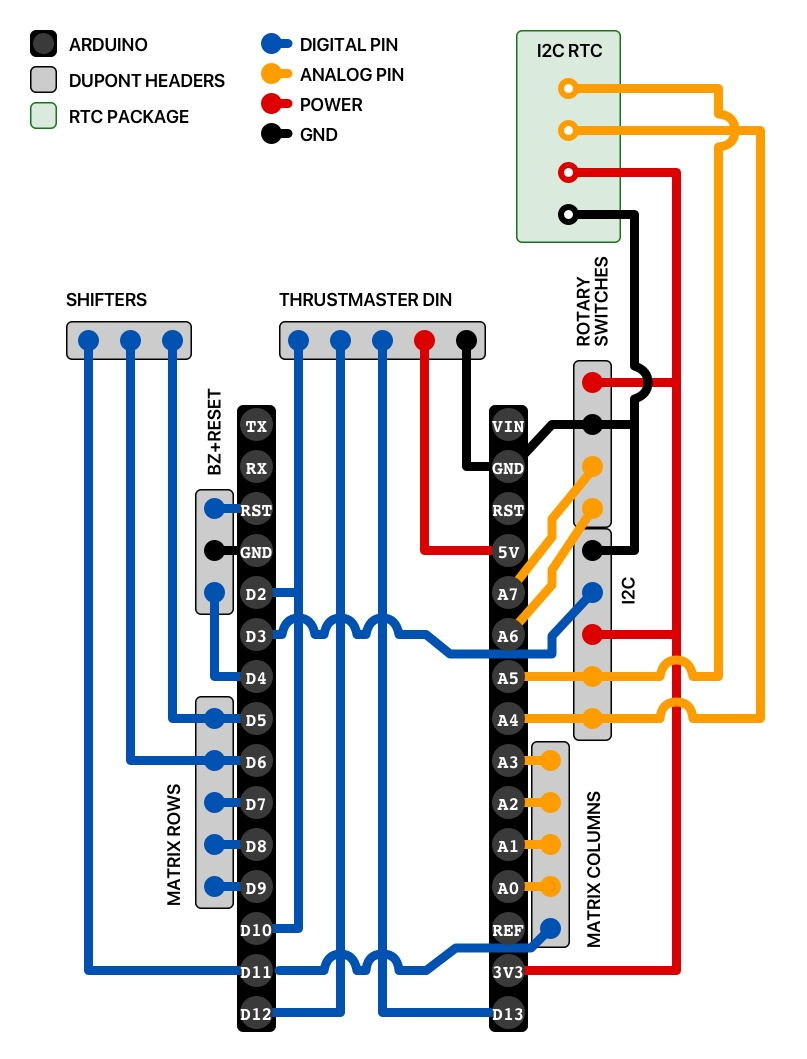
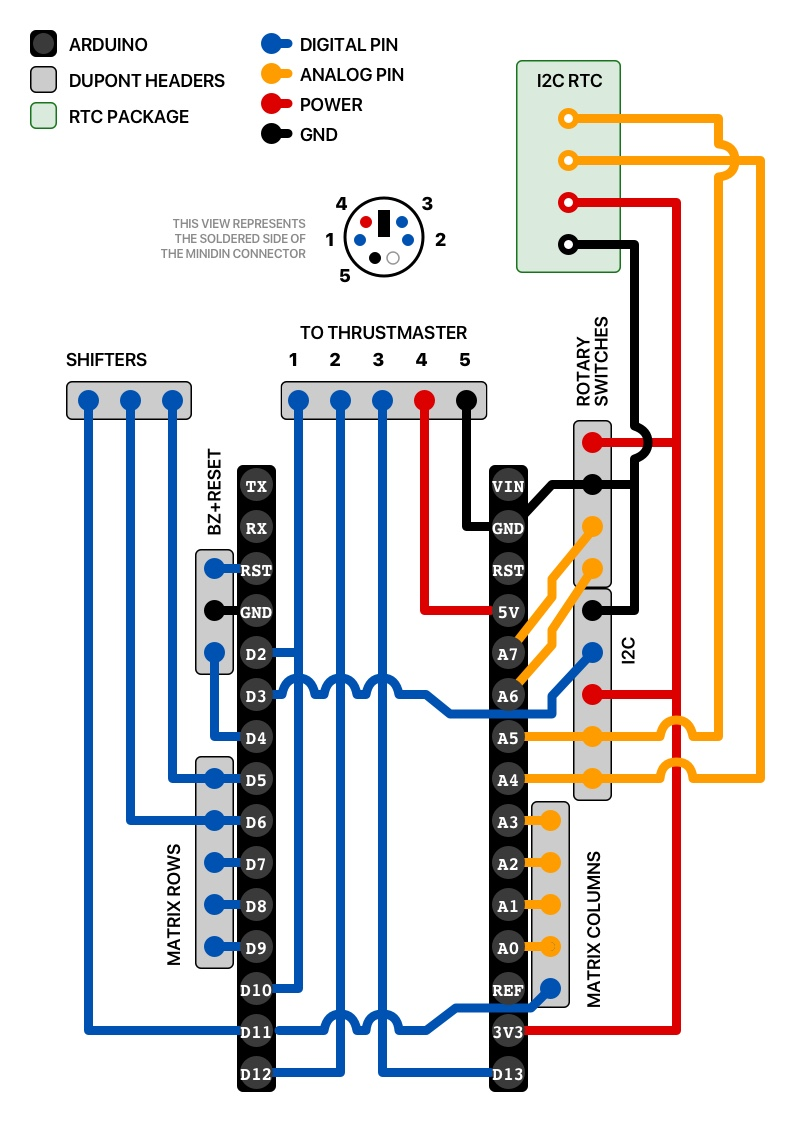
Documentation

diff --git a/board.md b/board.md
@@ -1,6 +1,6 @@
 # The Board
 
-The below is a representation of the final board design.
+The below is a representation of the final board design. Don;t forget to visit [Tara's blog post](http://rr-m.org/blog/thrustmaster-t300rs-steering-wheel-arduino-emulator/) for more details on how to connect the Arduno to the base.
 
 ##### Notes:
 1. I ended up soldering the RTC package onto the main board to save space
